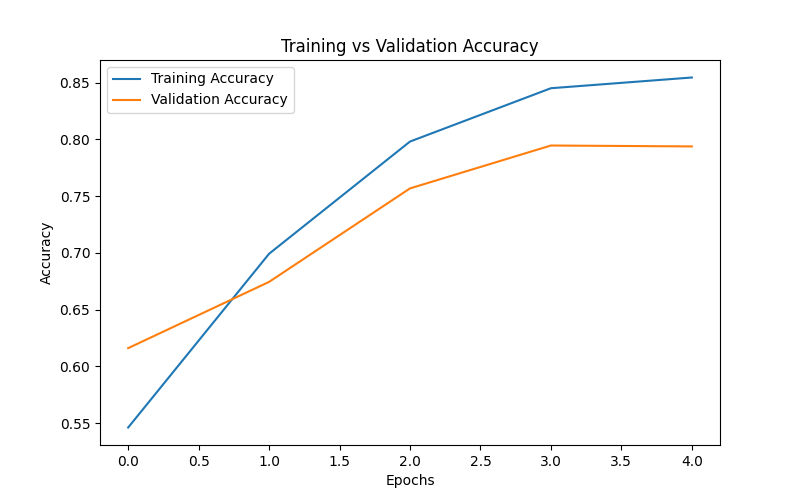
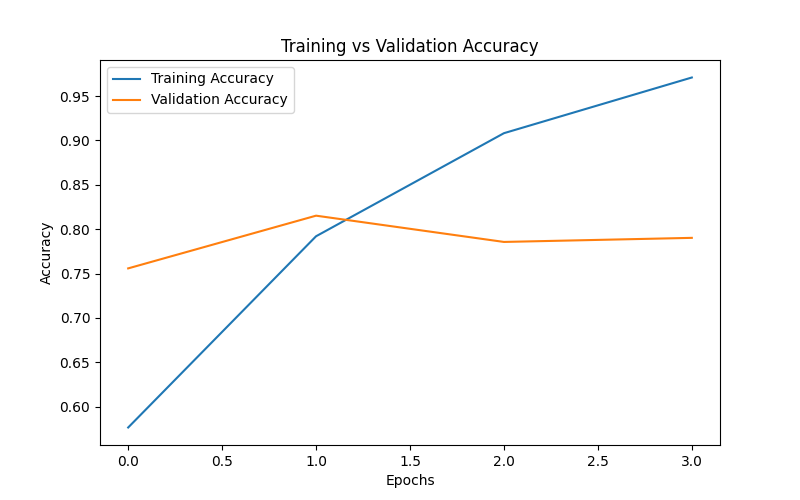
commit

diff --git a/model_training.py b/model_training.py
@@ -55,21 +55,21 @@ model = Sequential()
 model.add(
     Embedding(
         input_dim=vocab_size,
-        output_dim=128,
+        output_dim=32,
         input_length=max_len
     )
 )
 
 model.add(
     SimpleRNN(
-        128,
+        32,
         activation='tanh'
     )
 )
 
 model.add(
     Dense(
-        64,
+        16,
         activation='relu'
     )
 )
@@ -132,7 +132,7 @@ print(f"\nTest Accuracy: {accuracy:.4f}")
 # Save Model
 # ==========================================
 
-model.save("models/imdb_rnn_model.h5")
+model.save("models/imdb_rnn_model.keras")
 
 print("\nModel Saved Successfully!")
 

diff --git a/app.py b/app.py
@@ -1,7 +1,8 @@
 # ==========================================
 # IMDb Sentiment Analysis App using RNN
 # ==========================================
-
+import os
+os.environ["TF_CPP_MIN_LOG_LEVEL"] = "2"
 import streamlit as st
 import numpy as np
 import tensorflow as tf
@@ -14,7 +15,7 @@ from tensorflow.keras.models import load_model
 # Load Model
 # ==========================================
 
-model = load_model("models/imdb_rnn_model.h5")
+model = load_model("models/imdb_rnn_model.keras")
 
 # ==========================================
 # IMDb Word Index